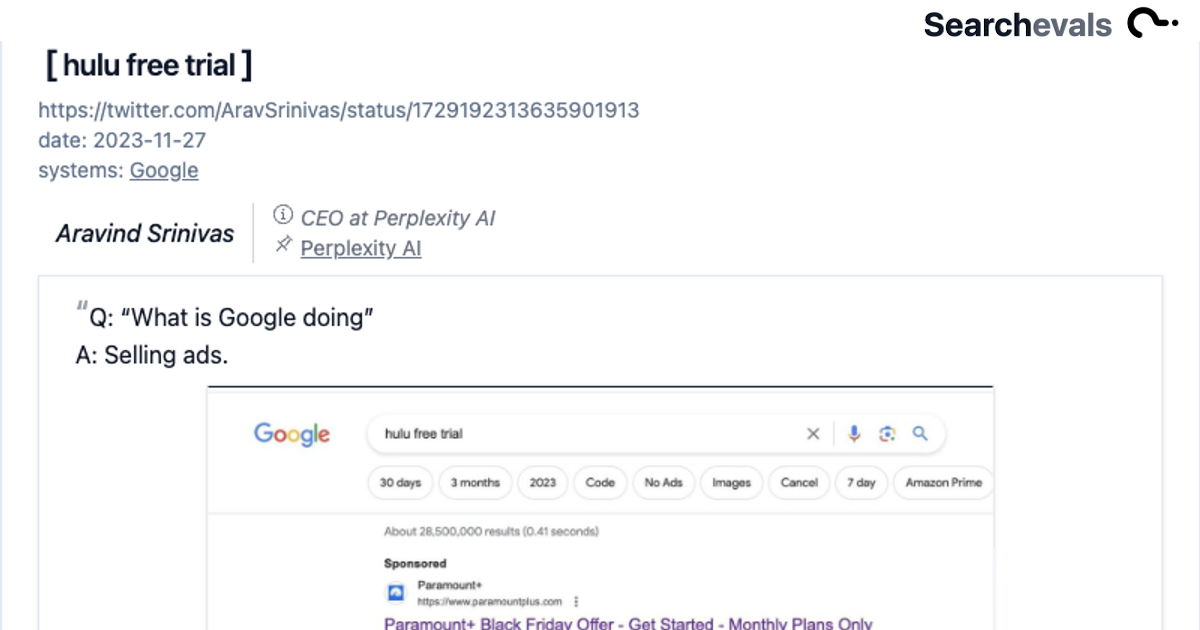
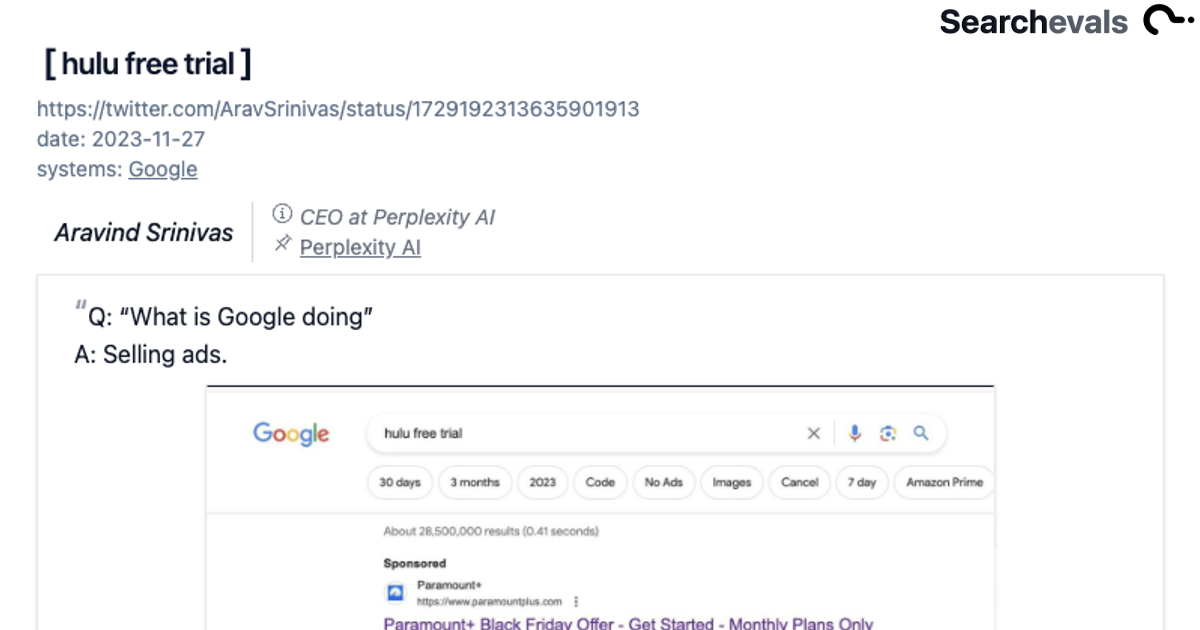
removed border fragments from screenshots, re #7

diff --git a/scripts/takeScreenshots.ts b/scripts/takeScreenshots.ts
@@ -6,7 +6,7 @@ const Jimp = require('jimp');
 
 const screenshotDir = "src/screenshots/"
 const publicScreenshotDir = "public/screenshots/"
-const searchevals_logo = "public/og_logo.png";
+const searchevals_logo = "public/og_logo_wide.png";
 
 
 function getScreenshotOutputPath(url) {
@@ -40,17 +40,23 @@ async function captureScreenshots(urls) {
         if (element) {
             await element.screenshot({ path: outputPath });
 
-            // Resize and add whitespace to maintain aspect ratio
             await sharp(outputPath)
-                .resize(1200, 630, {
-                    fit: 'cover',
-                    position: 'top',
+                .metadata()
+                .then(({ width, height }) => {
+                    // Ensure the image is large enough to be cropped and resized as desired
+                    return sharp(outputPath)
+                        .extract({ left: 1, top: 1, width: width - 2, height: height -2 }) // Adjust based on the actual border size
+                        .resize(1200, 630, {
+                            fit: 'cover',
+                            position: 'top',
+                        })
+                        .toFile(outputPathCropped); 
                 })
-                .toFile(outputPathCropped)
                 .then(() => {
-                    console.log(`Resized screenshot:\n  - url: ${url}\n  - file: ${outputPathCropped}`);
+                    console.log(`Cropped and resized screenshot:\n  - url: ${url}\n  - file: ${outputPathCropped}`);
                 })
-                .catch(err => console.error("Error resizing image:", err));
+                .catch(err => console.error("Error in cropping and resizing image:", err));
+
             addLogoToImage(outputPathCropped, searchevals_logo)
         } else {
             console.error(`Could not find the element '#search-eval-card-div' on the page: ${url}`);

diff --git a/src/components/Footer.tsx b/src/components/Footer.tsx
@@ -2,7 +2,7 @@ import { GitHubLogoIcon, TwitterLogoIcon, LinkedInLogoIcon } from '@radix-ui/rea
 import { Button } from "./ui/button";
 import { Input } from "./ui/input";
 
-const lastUpdated = "2024-02-15T20:22:35.000Z";
+const lastUpdated = "2024-02-15T21:22:48.257Z";
 
 const Footer: React.FC = () => {
   return (
